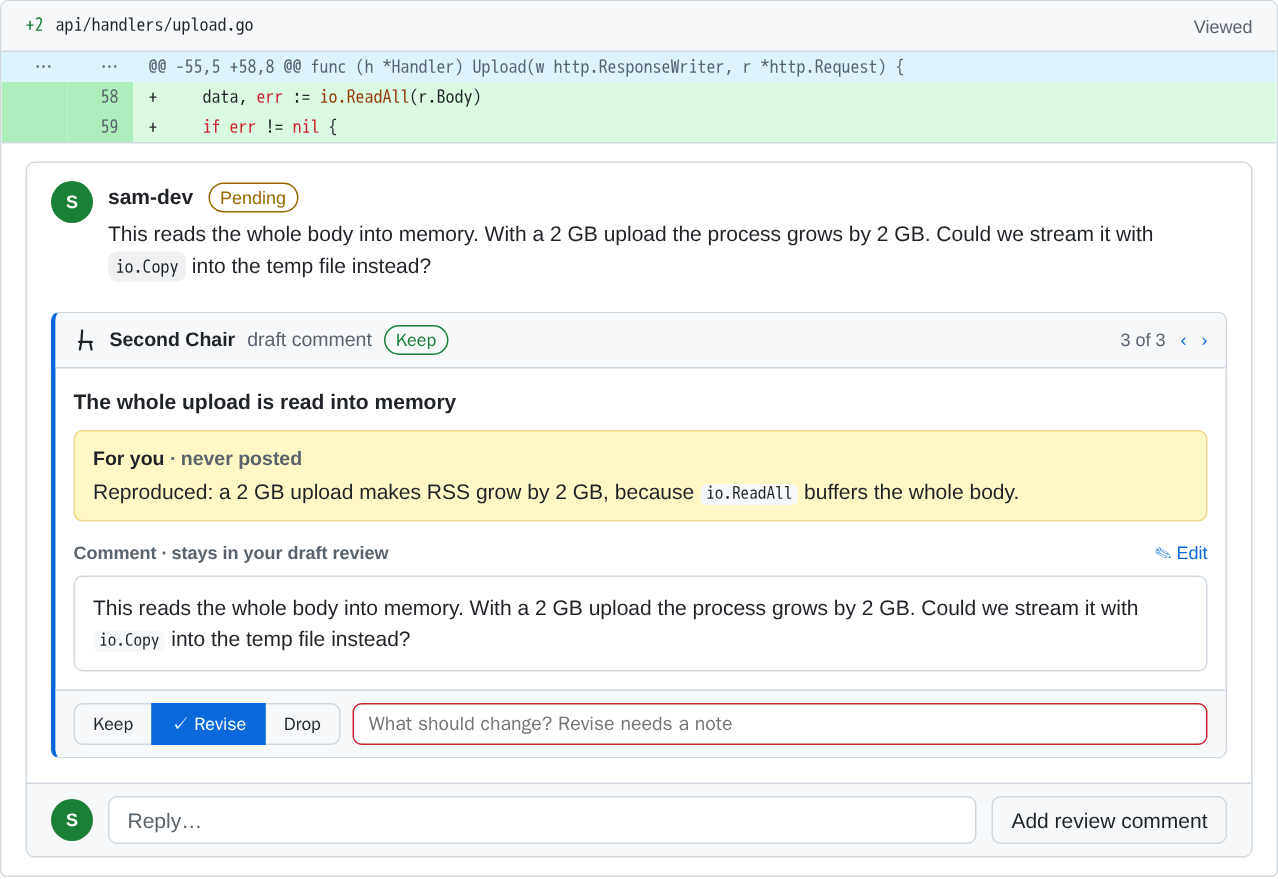
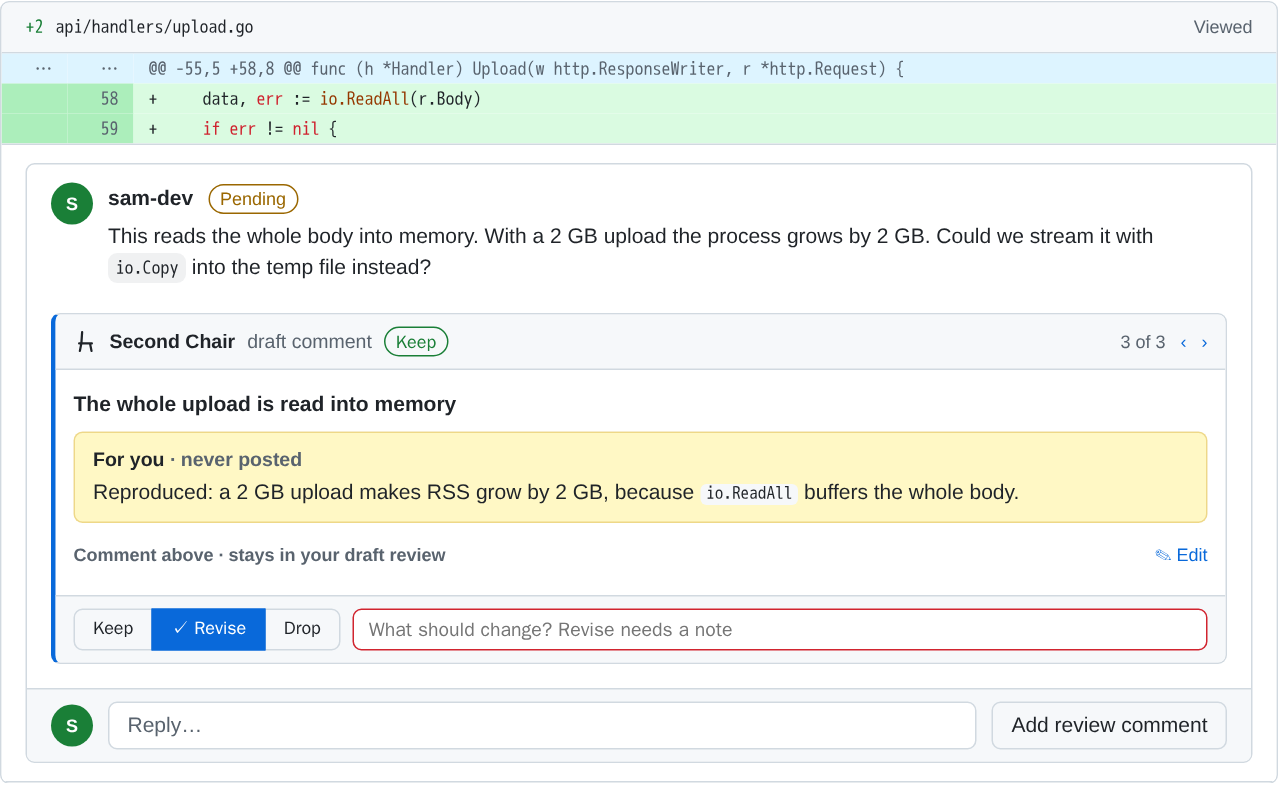
Release 1.1.5

Changed region(s): [[0.0, 0.0, 1.0, 0.9783], [0.885, 0.428, 0.9155, 0.4586], [0.885, 0.3669, 0.9155, 0.3975]]

diff --git a/CHANGELOG.md b/CHANGELOG.md
@@ -2,32 +2,9 @@
 
 ## 1.1.5
 
-Not released yet: no tag and no GitHub Release.
-
-- In review mode a card under its own pending comment no longer repeats the comment. The caption says **Comment above**, and **✎ Edit** opens the text. The card shows the text when it differs from the comment on GitHub: the agent's rewrite, or your edit. In the side panel the card still shows the text.
-
-## 1.1.4
-
-- The review tour says what the main comment is and when you choose **Approve**, **Comment** or **Request changes**: in round 2, after you decided each comment.
-
-## 1.1.3
-
-- The tour asks before it starts: **Show me** or **Not now**. A user who has seen no tour yet gets a short welcome that says what Second Chair does on this screen.
-- The tour now shows the yellow **For you** box in review mode too, and the note for the agent in every tour, with an example.
-- A part of the panel taller than the panel, such as a long review body, is lit only where it is on screen, and the note points at it.
-
-## 1.1.2
-
-- A live tour replaces the text guide. The first time you see the cards of a mode and round, the page dims and one part of Second Chair at a time lights up, with a short note and **Next**, **Back** and **Skip**. Each tour has three to seven steps. The **?** in the side panel starts it again.
-
-## 1.1.1
-
-- The filter bar in the side panel no longer shows a scroll bar of its own.
-
-## 1.1.0
-
 Added:
 
+- A live tour. The first time you see the cards of a mode and round, Second Chair asks whether to show it: **Show me** or **Not now**. The page then dims, and one part of Second Chair at a time lights up, with a short note and **Next**, **Back** and **Skip**. Each tour has four to eight steps. The **?** in the side panel starts it again.
 - A status line under the panel header says whose turn it is and what happens next.
 - After you send a round, the panel waits for the agent and shows when the agent picked your decisions up. The next round opens by itself, without a reload.
 - **Edit and send again** while the agent works on a round. `second-chair push` refuses the next round until the agent read the change, so the agent always sees it.
@@ -38,6 +15,7 @@ Added:
 
 Changed:
 
+- In review mode a card under its own pending comment no longer repeats the comment. The caption says **Comment above**, and **✎ Edit** opens the text. The card shows the text when it differs from the comment on GitHub: the agent's rewrite, or your edit. In the side panel the card still shows the text.
 - The work on a pull request is done when the agent closes it after `publish`, not at the final send. Until then the panel says that the agent publishes.
 - Review mode labels **Post** as **Keep**, because nothing becomes public before the review is submitted.
 - Every button explains itself in its tooltip.
@@ -51,6 +29,7 @@ Fixed:
 - **Write**, **expand**, **jump** and the arrows did nothing on the Files changed tab. GitHub's own code took the clicks. Every control is now a button, and Second Chair handles its clicks first.
 - Review rows said "general" next to every comment.
 - After a send, the text could still be edited, and the edit went nowhere.
+- The filter bar in the side panel no longer shows a scroll bar of its own.
 
 ## 1.0.1
 
